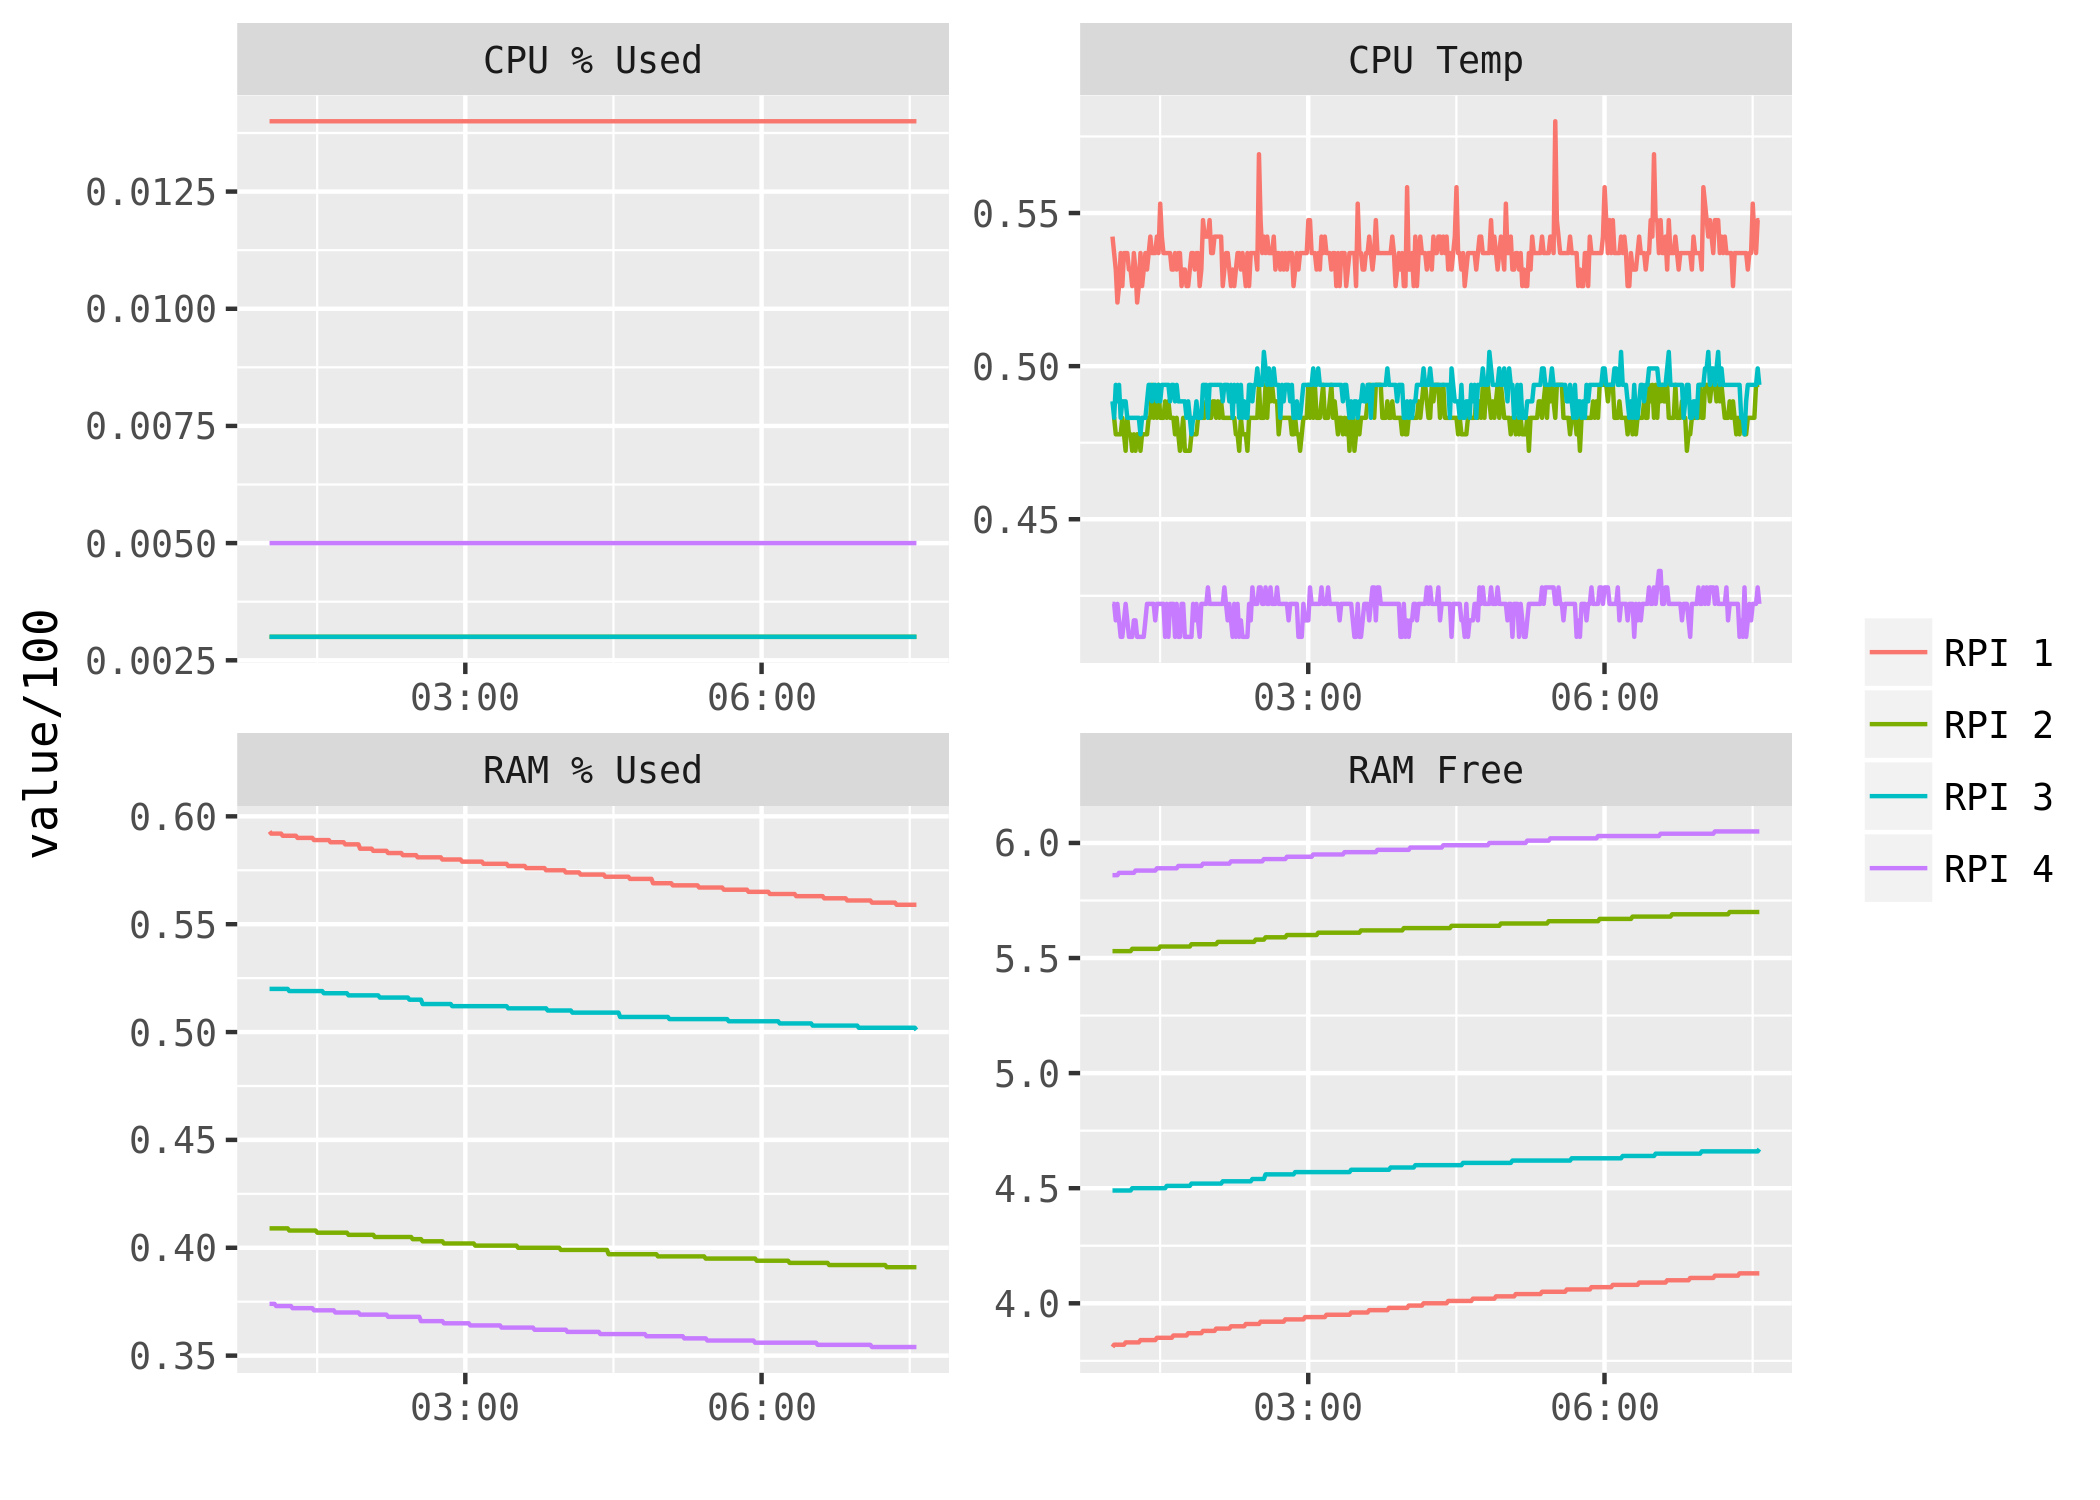
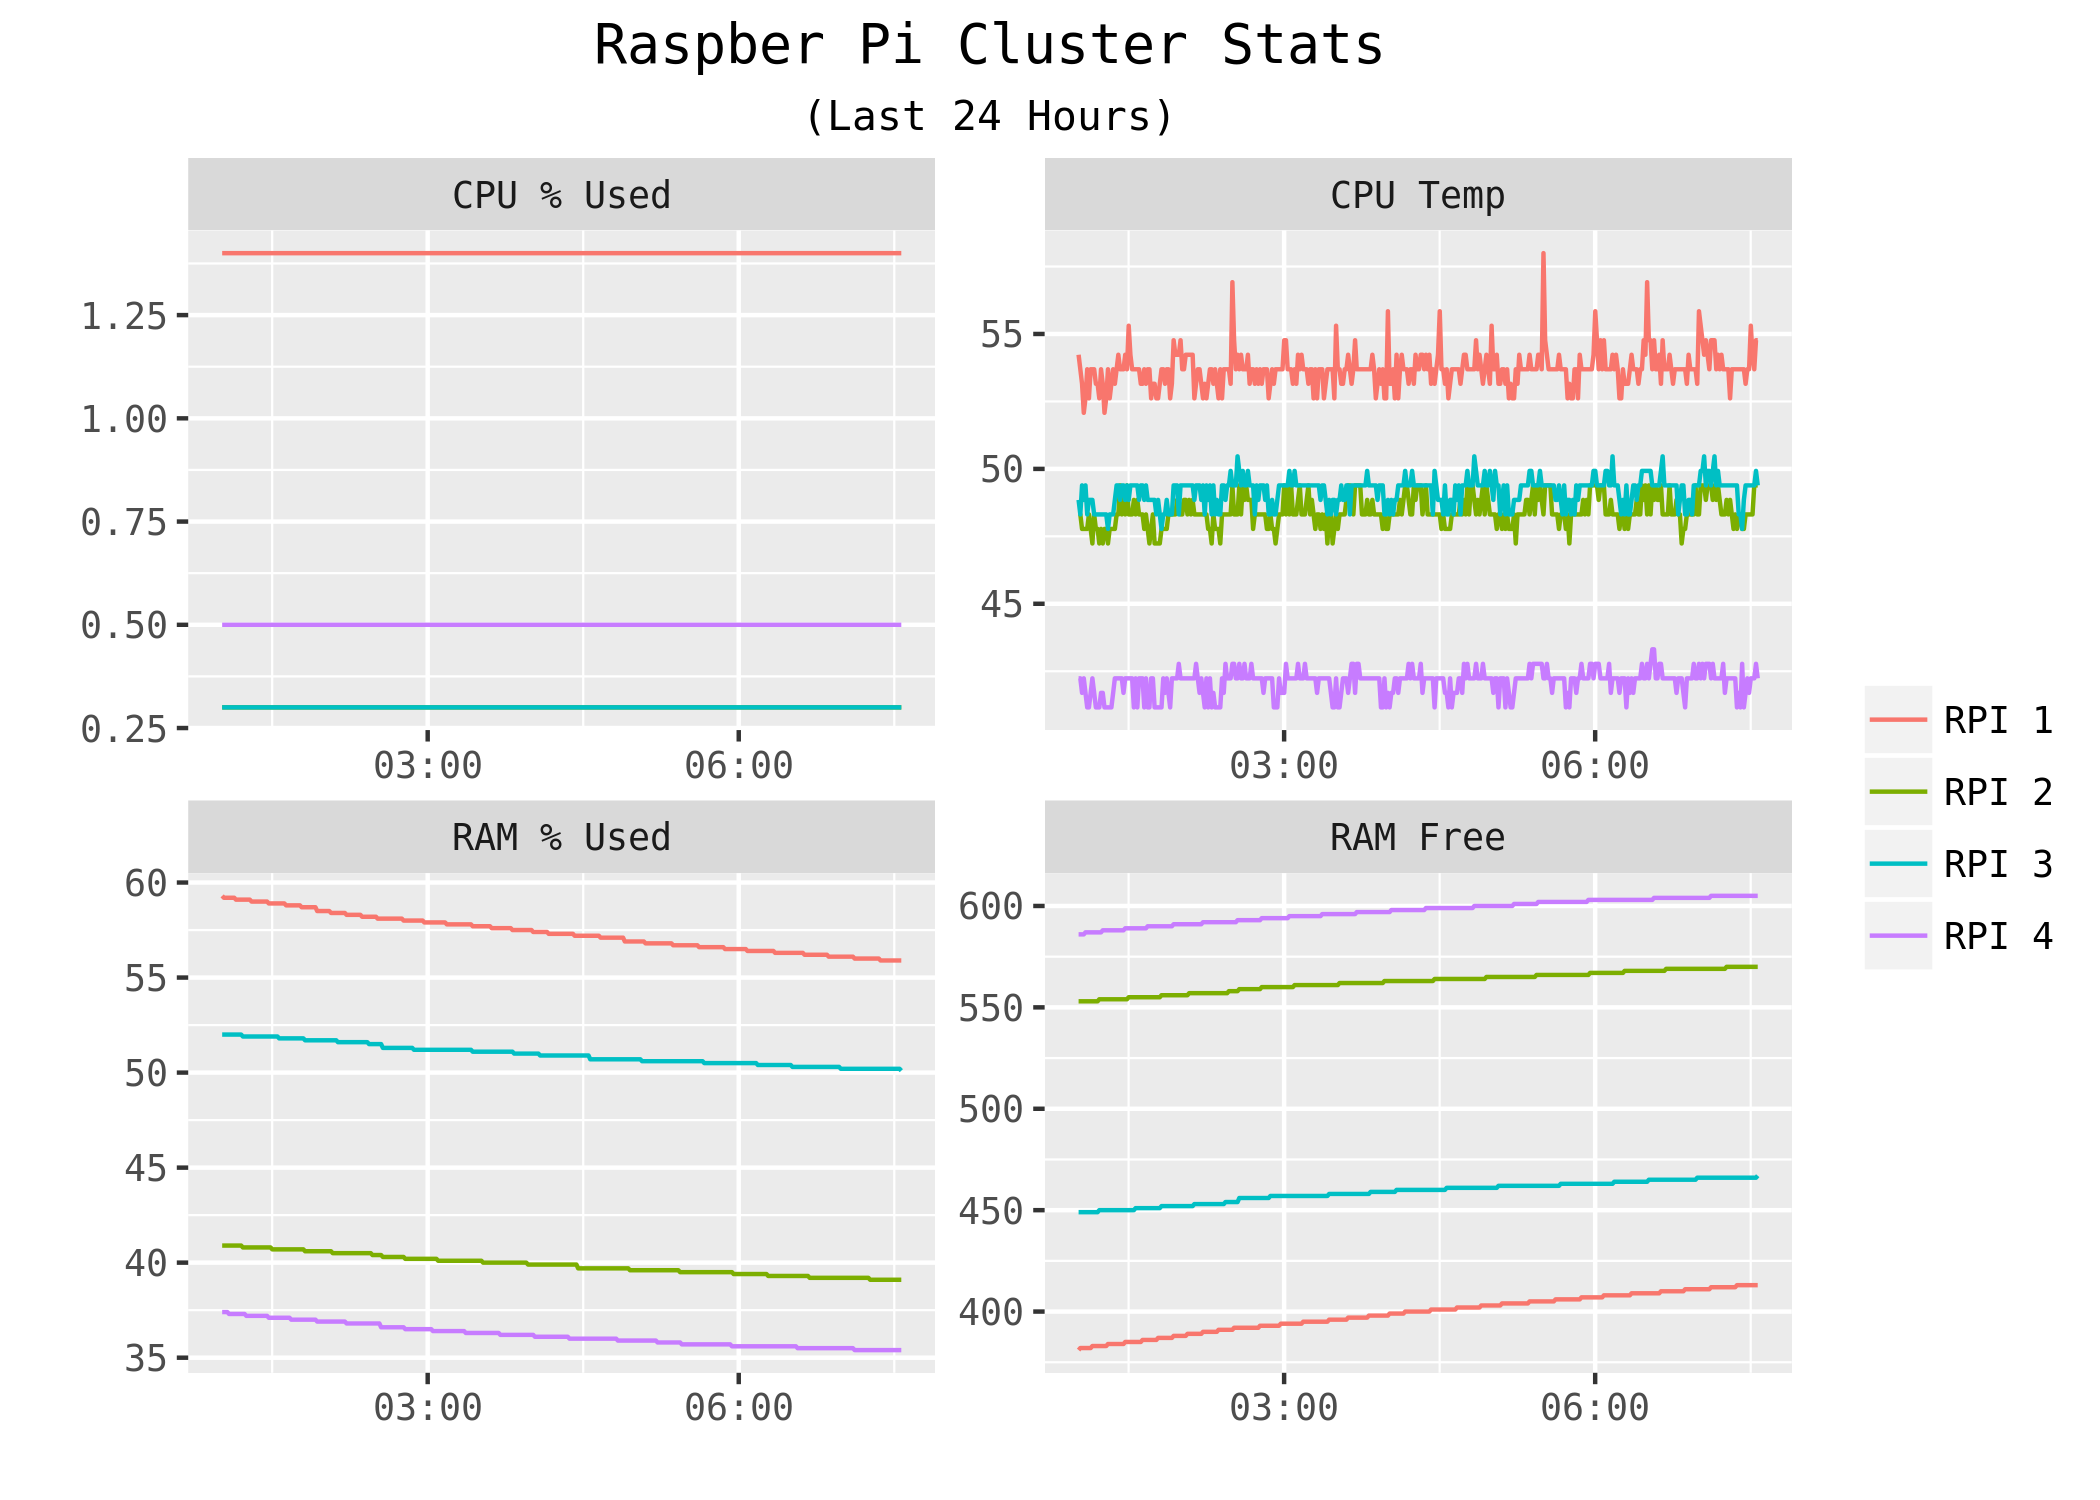
updated readme

diff --git a/README.md b/README.md
@@ -3,11 +3,11 @@
 This repo is being used to document my project for building a small raspberry pi cluster running spark. Similar to [this article](http://makezine.com/projects/build-a-compact-4-node-raspberry-pi-cluster/) which I used as a guide, I only wanted to have to use a single wall plug for the entire setup. I also wanted to minimize the footprint of the cluster. In this example all of the devices except for the USB hub are powered by USB. I have broken the project into 3 sections: building the cluster, setting up the os, and configuring spark.
 
 # Shopping List
-* 3 - Raspberry Pi 3b, (i also added an old 2b, not shown in pictures)
+* 3 - Raspberry Pi 3b, (I also added an old 2b, not show in some pictures, but added it later)
 * 1 - GeauxRobot Raspberry Pi 3 Model B 4-layer Dog Bone Stack (case)
 * 1 - Anker PowerPort 6 (60W 6-Port USB Charging Hub) (power supply)
 * 1 - Black Box USB-Powered 10/100 5-Port Switch
-* 3 - 6" Ethernet Network Cable
+* 4 - 6" Ethernet Network Cables
 
 <img src="images/img08.jpg" width="400">
 
@@ -15,6 +15,6 @@ This repo is being used to document my project for building a small raspberry pi
 
 # System Monitor
 
-The following plot is the output of a pyspark job that plots the cpu temperature of all 4 rpis
+The following plot shows the cluster usage over the last 24 hours.
 
 ![](output/cpu.png)
